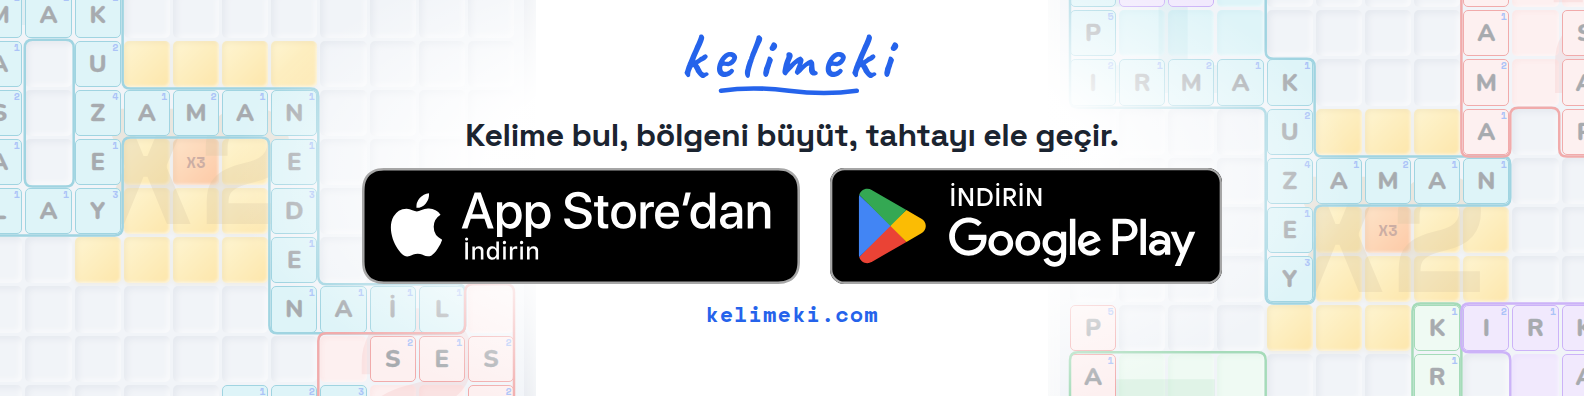
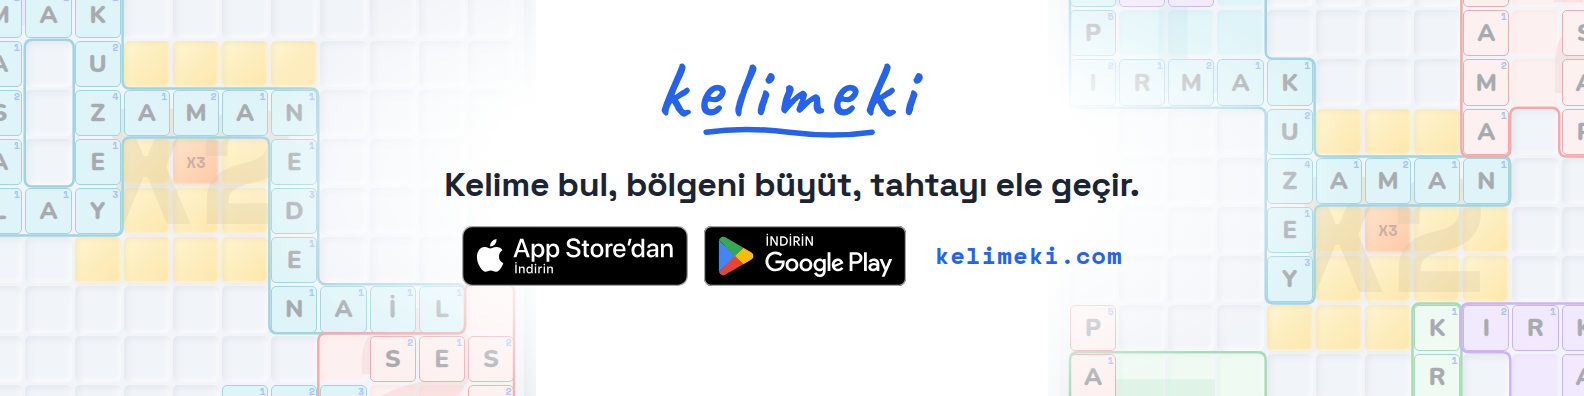
Pazarlama: LinkedIn kapaklarında rozetler küçültüldü (kullanıcı kararı)
30 px, kelimeki.com yanında; sayfa kapağı yatay düzene döndü. Telefonda
Apple'ın 40 pt sınırının altında kaldığı biliniyor ve kayda geçti.

Claude-Session: https://claude.ai/code/session_013dE4YtCbyKB92nMS3fg6J3

Changed region(s): [[0.2165, 0.4242, 0.7734, 0.7273], [0.2784, 0.0909, 0.7115, 0.3939], [0.4331, 0.7576, 0.5568, 0.8182]]

diff --git a/scripts/kapak/linkedin.tsx b/scripts/kapak/linkedin.tsx
@@ -14,9 +14,7 @@
 // iki yandan taşar, kırpılmaları bilgi kaybettirmez.
 import { renderToStaticMarkup } from 'react-dom/server';
 import { LandingLogo, LandingLogoDefs } from '../../src/landing/LandingLogo';
-import {
-  BADGE_GAP_PX, BADGE_HEIGHT_PX, BADGE_MIN_HEIGHT_PX, visibleStoreBadges,
-} from '../../src/utils/storeLinks';
+import { BADGE_GAP_PX, BADGE_HEIGHT_PX, visibleStoreBadges } from '../../src/utils/storeLinks';
 import { GameBoardPreview } from '../../src/components/GameBoardPreview';
 import { DEMO_TILES_2, DEMO_TILES_4 } from '../../src/landing/demoBoard';
 
@@ -38,18 +36,15 @@ const ACCENT = '#2563EB';
  * çıktığı ve sırası KAPIDAN (`visibleStoreBadges` — App Store önce, eşit
  * yükseklik); rozet dosyaları `<img>` ile, çizilmez.
  *
- * ⚠ Yükseklik Apple'ın alt sınırından TÜRER, elle seçilmez: 40 pt EKRANDA
- * ölçülür ve en küçük ekran telefonun kırpması — kapağın orta `mobilW`
- * px'lik şeridi ~390 pt'lik ekrana yayılıyor (`build.mjs`teki `MOBIL_W`
- * ile AYNI sayılar). Kişisel kapakta 560 → 58 px, sayfa kapağında
- * 840 → 87 px.
- *
- * ⚠ Rozetlere dokunulamaz — LinkedIn kapağa link koydurmuyor; bilinen bedel.
+ * ⚠ Rozetler bilerek KÜÇÜK (kişisel 30 px, sayfa 30 px) — KULLANICI KARARI,
+ * 27 Eylül 2026. İlk deneme yüksekliği Apple'ın 40 pt alt sınırından
+ * türetmişti (telefon kırpmasına göre 58 / 87 px); kapak rozetlere boğuldu,
+ * kullanıcı "olmamış, küçültmek lazım" dedi. Bedel biliniyor: telefonda
+ * rozet ~21 / ~14 pt'ye iner, Apple'ın ekran sınırının ALTINDA. Kapakta
+ * rozete dokunulamaz zaten (LinkedIn link koydurmuyor); rozet burada bir
+ * çağrı düğmesi değil, "iki mağazada var" işareti.
  */
-const TELEFON_PT = 390;
-function rozetYuksekligi(mobilW: number): number {
-  return Math.ceil(BADGE_MIN_HEIGHT_PX / (TELEFON_PT / mobilW));
-}
+const ROZET_H = 30;
 
 function Rozetler({ yukseklik }: { yukseklik: number }) {
   return (
@@ -116,22 +111,24 @@ export function LinkedInKapak() {
           alignItems: 'center',
           justifyContent: 'center',
           // Dikeyde hafif yukarı: alt bant avatarın ve ad kartının bölgesi.
-          paddingBottom: 18,
+          paddingBottom: 26,
         }}
       >
         {/* Güvenli kutu: 440 px — telefonun dar kırpmasında da tamamen içeride. */}
         <div
           data-guvenli-kutu=""
-          style={{ width: 440, display: 'flex', flexDirection: 'column', alignItems: 'center', gap: 7 }}
+          style={{ width: 440, display: 'flex', flexDirection: 'column', alignItems: 'center', gap: 9 }}
         >
-          <LandingLogo height={36} />
-          <p style={{ margin: 0, fontSize: 16, lineHeight: 1.2, fontWeight: 700, letterSpacing: -0.2 }}>
+          <LandingLogo height={44} />
+          <p style={{ margin: 0, fontSize: 17, lineHeight: 1.25, fontWeight: 700, letterSpacing: -0.2 }}>
             Kelime bul, bölgeni büyüt, tahtayı ele geçir.
           </p>
-          <Rozetler yukseklik={rozetYuksekligi(560)} />
-          <span style={{ fontFamily: MONO, fontSize: 11, fontWeight: 700, color: ACCENT, letterSpacing: 0.5 }}>
-            kelimeki.com
-          </span>
+          <div style={{ display: 'flex', alignItems: 'center', gap: 14 }}>
+            <Rozetler yukseklik={ROZET_H} />
+            <span style={{ fontFamily: MONO, fontSize: 12, fontWeight: 700, color: ACCENT, letterSpacing: 0.5 }}>
+              kelimeki.com
+            </span>
+          </div>
         </div>
       </div>
     </div>
@@ -186,16 +183,20 @@ export function LinkedInSayfaKapak() {
           paddingLeft: 150,
         }}
       >
-        {/* Dikey yığın (27 Eylül 2026'ya kadar yatay: logo | çizgi | metin).
-            Telefon kırpmasının 87 px istediği rozetlerin yanına logo artık
-            sığmıyor (logo + iki rozet ≈ 890 px > 840 px'lik şerit), üste alındı.
-            Site adresi bu kapakta YOK — sayfanın kendi "Web sitesi" düğmesi var. */}
-        <div data-guvenli-kutu="" style={{ display: 'flex', flexDirection: 'column', alignItems: 'center', gap: 8 }}>
-          <LandingLogo height={32} />
-          <p style={{ margin: 0, fontSize: 18, lineHeight: 1.2, fontWeight: 700, letterSpacing: -0.2 }}>
-            Kelime bul, bölgeni büyüt, tahtayı ele geçir.
-          </p>
-          <Rozetler yukseklik={rozetYuksekligi(840)} />
+        <div data-guvenli-kutu="" style={{ display: 'flex', alignItems: 'center', gap: 26 }}>
+          <LandingLogo height={46} />
+          <span style={{ width: 1, height: 52, background: '#D8DEE6' }} />
+          <div style={{ display: 'flex', flexDirection: 'column', gap: 8 }}>
+            <p style={{ margin: 0, fontSize: 19, lineHeight: 1.2, fontWeight: 700, letterSpacing: -0.2 }}>
+              Kelime bul, bölgeni büyüt, tahtayı ele geçir.
+            </p>
+            <div style={{ display: 'flex', alignItems: 'center', gap: 14 }}>
+              <Rozetler yukseklik={ROZET_H} />
+              <span style={{ fontFamily: MONO, fontSize: 12.5, fontWeight: 700, color: ACCENT, letterSpacing: 0.4 }}>
+                kelimeki.com
+              </span>
+            </div>
+          </div>
         </div>
       </div>
     </div>

diff --git a/docs/decisions/marketing-assets.md b/docs/decisions/marketing-assets.md
@@ -209,17 +209,14 @@ alt %45) → uzakta.
 Eylül 2026'da SSS metninin bayatlamasıyla alınan dersin aynısı.
 
 **27 Eylül 2026: metin → ROZET, iki kapakta da** (kullanıcı isteği).
-`visibleStoreBadges()` (App Store önce, eşit yükseklik), `<img>` ile.
-Yükseklik Apple'ın 40 pt alt sınırından TÜRETİLİYOR: sınır EKRANDA
-ölçülür, en küçük ekran telefonun kırpması (kapağın orta `MOBIL_W`
-şeridi ~390 pt'ye yayılıyor) → kişisel kapakta 560 → **58 px**, sayfa
-kapağında 840 → **87 px**. Sayfa kapağı bu yüzden yatay dizilimden
-(logo | çizgi | metin) dikey yığına döndü — logo + iki rozet 840'a
-sığmıyordu — ve site adresi oradan çıktı (sayfanın "Web sitesi" düğmesi
-var); kişisel kapakta `kelimeki.com` rozetlerin altında kaldı. Betik iki
-rozetin kırpma şeridinde ve eşit yükseklikte olduğunu ölçer, değilse
-DÜŞER. Bilinen bedel: kapakta rozete dokunulamaz (LinkedIn link
-koydurmuyor).
+`visibleStoreBadges()` (App Store önce, eşit yükseklik), `<img>` ile;
+`kelimeki.com` rozetlerin yanında. ⚠ Rozetler bilerek KÜÇÜK (30 CSS px)
+— ilk deneme yüksekliği Apple'ın 40 pt sınırından türetmişti (telefon
+kırpmasına göre 58 / 87 px), kapak rozetlere boğuldu ve kullanıcı
+reddetti: *"olmamış, küçültmek lazım"*. Bedel: telefonda ~21 / ~14 pt,
+Apple'ın ekran sınırının altında — kapakta rozete dokunulamadığı için
+(LinkedIn link koydurmuyor) kabul edildi. Betik iki rozetin kırpma
+şeridinde ve eşit yükseklikte olduğunu ölçer, değilse DÜŞER.
 
 ### Reel (`scripts/reel/`, 20 Ağustos 2026)
 
